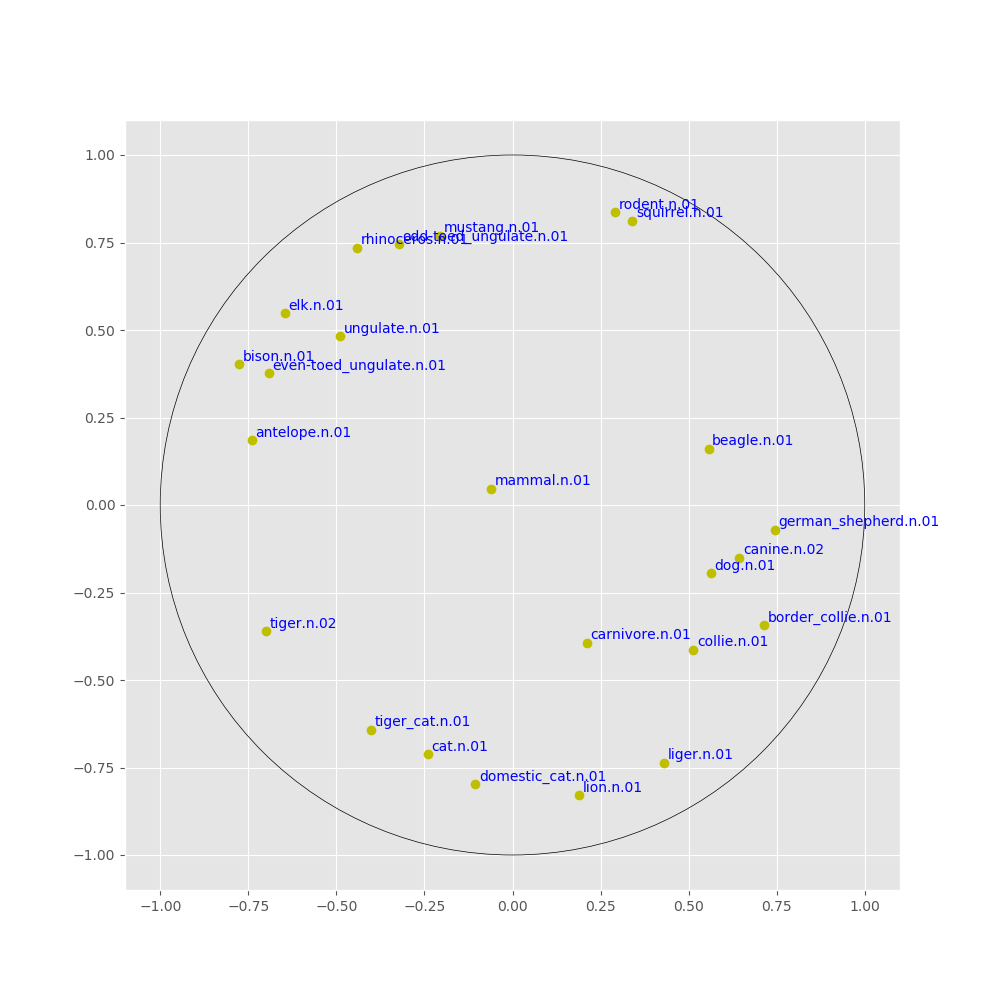
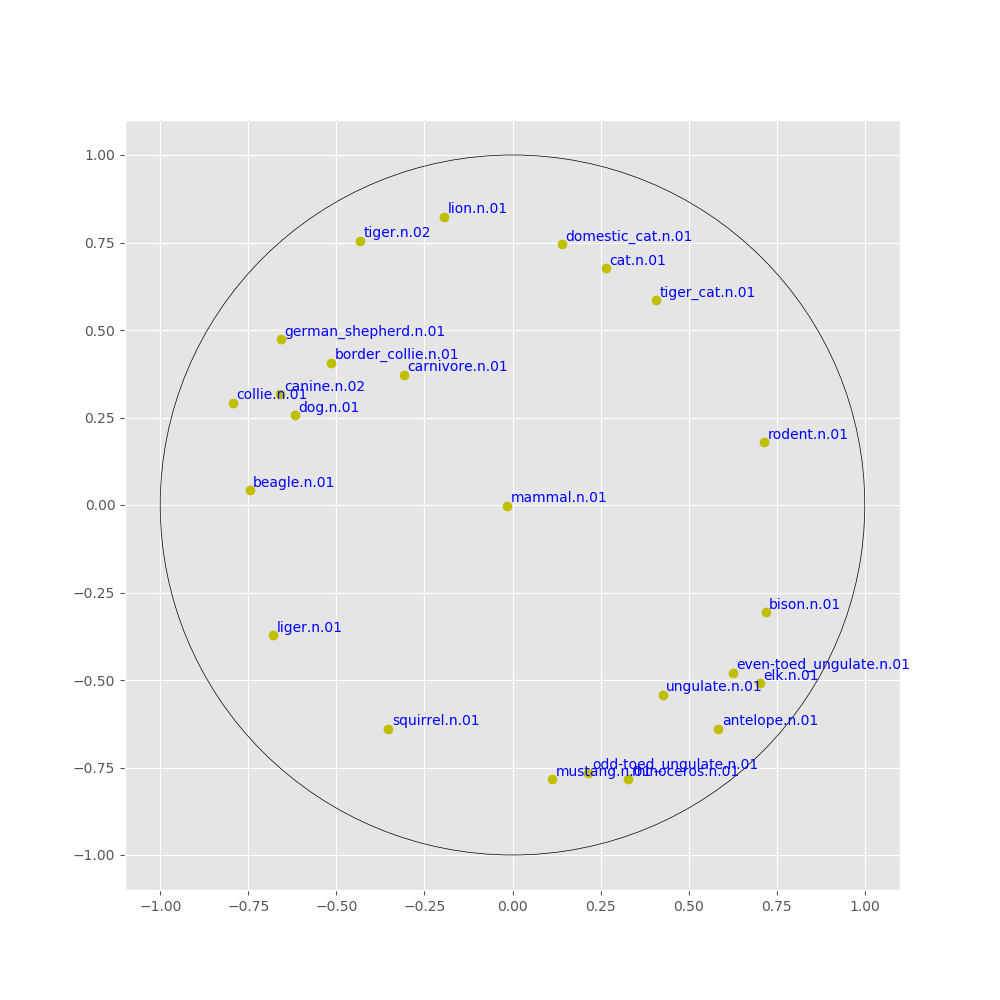
add tensorflow implementation

diff --git a/poincare_tensor.py b/poincare_tensor.py
@@ -1,0 +1,48 @@
+# -*- coding: utf-8 -*-
+
+import random, numpy as np 
+import tensorflow as tf
+from utils import pplot, PoincareBase
+
+# caution! may not yield correct result.
+
+class PoincareTensor(PoincareBase):
+	eps = 1e-6
+	def __init__(self,num_iter=10,num_negs=10,lr1=0.2,lr2=0.001,dp='data/mammal_subtree.tsv'): # dim=2
+		super(PoincareTensor,self).__init__(num_iter,num_negs,lr1,lr2,dp)
+	def proj(self,x):
+		return tf.clip_by_norm(x,1.-self.eps,axes=1)
+	def dists(self,u,v):
+		uu, uv, vv = tf.norm(u)**2, tf.matmul(u,tf.transpose(v)), tf.norm(v)**2
+		alpha, beta = tf.maximum(1-uu,self.eps), tf.maximum(1-vv,self.eps)
+		gamma = tf.maximum(1+2*(uu+vv-2*uv)/alpha/beta,1+self.eps)
+		return tf.acosh(gamma)
+	def train(self): # LEFT SAMPLING
+		ld = len(self.pdata); lp = range(len(self.pdict))
+		graph = tf.Graph()
+		with graph.as_default():
+			step = tf.Variable(0,trainable=False)
+			pembs = tf.Variable(tf.random_uniform([len(self.pdict),self.dim],minval=-0.001,maxval=0.001))
+			n1 = tf.placeholder(tf.int32,shape=(1,),name='n1')
+			n2 = tf.placeholder(tf.int32,shape=(1,),name='n2')
+			sp = tf.placeholder(tf.int32,shape=(self.num_negs,),name='sp')
+			u,v,negs = map(lambda x:tf.nn.embedding_lookup(pembs,x),[n1,n2,sp])
+			loss = -tf.log(tf.exp(-self.dists(u,v))/tf.reduce_sum(tf.exp(-self.dists(u,negs))))
+			learning_rate = tf.train.polynomial_decay(self.lr1,step,self.num_iter*ld,self.lr2)
+			optimizer = tf.train.GradientDescentOptimizer(learning_rate)
+			grad_vars = optimizer.compute_gradients(loss)
+			rescaled = [(g*(1.-tf.reshape(tf.norm(v,axis=1),(-1,1))**2)**2/4.,v) for g,v in grad_vars]
+			trainstep = optimizer.apply_gradients(rescaled,global_step=step); pembs = self.proj(pembs)
+			init = tf.global_variables_initializer()
+		with tf.Session(graph=graph) as session:
+			init.run()
+			for epoch in xrange(self.num_iter):
+				print epoch; random.shuffle(self.pdata)
+				for w1,w2 in self.pdata:
+					i1,i2 = self.pdict[w1], self.pdict[w2]
+					_,self.pembs = session.run([trainstep,pembs],feed_dict=\
+					{n1:[i1],n2:[i2],sp:[random.choice(lp) for _ in range(self.num_negs)]})
+		pplot(self.pdict,self.pembs,'mammal_tensor')
+
+if __name__ == '__main__':
+	PoincareTensor(num_iter=100).train()

diff --git a/poincare_numpy.py b/poincare_numpy.py
@@ -28,23 +28,25 @@ class PoincareNumpy(PoincareBase):
 		gdv = cv*((uu-2*uv+1)/beta*v-u)
 		return gdu, gdv
 	def train(self): # BOTH SAMPLING
-		lp = range(len(self.pdict))
+		pdata, pdict, pembs = self.pdata, self.pdict, self.pembs
+		def neg_sampling(i1,i2,lp=range(len(pdict))):
+			d,env = self.dists(pembs[i1],pembs[i2])
+			yield i1,i2,math.exp(-d),env
+			for _ in xrange(self.num_negs):
+				s1,s2 = random.choice(lp),random.choice(lp)
+				d,env = self.dists(pembs[s1],pembs[s2])
+				yield s1,s2,math.exp(-d),env
 		for epoch in xrange(self.num_iter):
-			print epoch; random.shuffle(self.pdata)
+			print epoch; random.shuffle(pdata)
 			r = 1.*epoch/self.num_iter; lr = (1-r)*self.lr1+r*self.lr2
-			for w1,w2 in self.pdata:
-				i1,i2 = self.pdict[w1],self.pdict[w2]
-				d,env = self.dists(self.pembs[i1],self.pembs[i2])
-				exp_neg_dists = [(i1,i2,math.exp(-d),env)]
-				for _ in xrange(self.num_negs):
-					s1,s2 = random.choice(lp),random.choice(lp)
-					d,env = self.dists(self.pembs[s1],self.pembs[s2])
-					exp_neg_dists.append((s1,s2,math.exp(-d),env))
+			for w1,w2 in pdata:
+				i1,i2 = pdict[w1],pdict[w2]
+				exp_neg_dists = list(neg_sampling(i1,i2))
 				Z = sum(map(operator.itemgetter(2),exp_neg_dists))
 				for i,(i1,i2,d,env) in enumerate(exp_neg_dists):
 					gl,gr = self.backward(1.*(i==0)-d/Z,env)
-					if gl is not None: self.pembs[i1] = self.add_clip(-lr,self.pembs[i1],gl)
-					if gr is not None: self.pembs[i2] = self.add_clip(-lr,self.pembs[i2],gr)
+					if gl is not None: pembs[i1] = self.add_clip(-lr,pembs[i1],gl)
+					if gr is not None: pembs[i2] = self.add_clip(-lr,pembs[i2],gr)
 		pplot(self.pdict,self.pembs,'mammal_numpy')
 
 if __name__ == '__main__':

diff --git a/poincare_torch.py b/poincare_torch.py
@@ -17,7 +17,7 @@ class PoincareTorch(PoincareBase):
 	def acosh(self,x):
 		return torch.log(x+torch.sqrt(x**2-1))
 	def dists(self,u,v):
-		uu, uv, vv= u.norm(dim=1)**2, u.mm(v.t()), v.norm(dim=1)**2
+		uu, uv, vv = u.norm(dim=1)**2, u.mm(v.t()), v.norm(dim=1)**2
 		alpha, beta = (1-uu).clamp(min=self.eps), (1-vv).clamp(min=self.eps)
 		gamma = (1+2*(uu+vv-2*uv)/alpha/beta).clamp(min=1+self.eps)
 		return self.acosh(gamma)

diff --git a/README.md b/README.md
@@ -14,3 +14,7 @@ NumPy implementation (num_iter=100)
 PyTorch implementation (num_iter=100)
 
 ![https://github.com/qiangsiwei/poincare_embedding/blob/master/data/mammal_torch.png](https://github.com/qiangsiwei/poincare_embedding/blob/master/data/mammal_torch.png)
+
+TensorFlow implementation (num_iter=100)
+
+![https://github.com/qiangsiwei/poincare_embedding/blob/master/data/mammal_torch.png](https://github.com/qiangsiwei/poincare_embedding/blob/master/data/mammal_torch.png)
